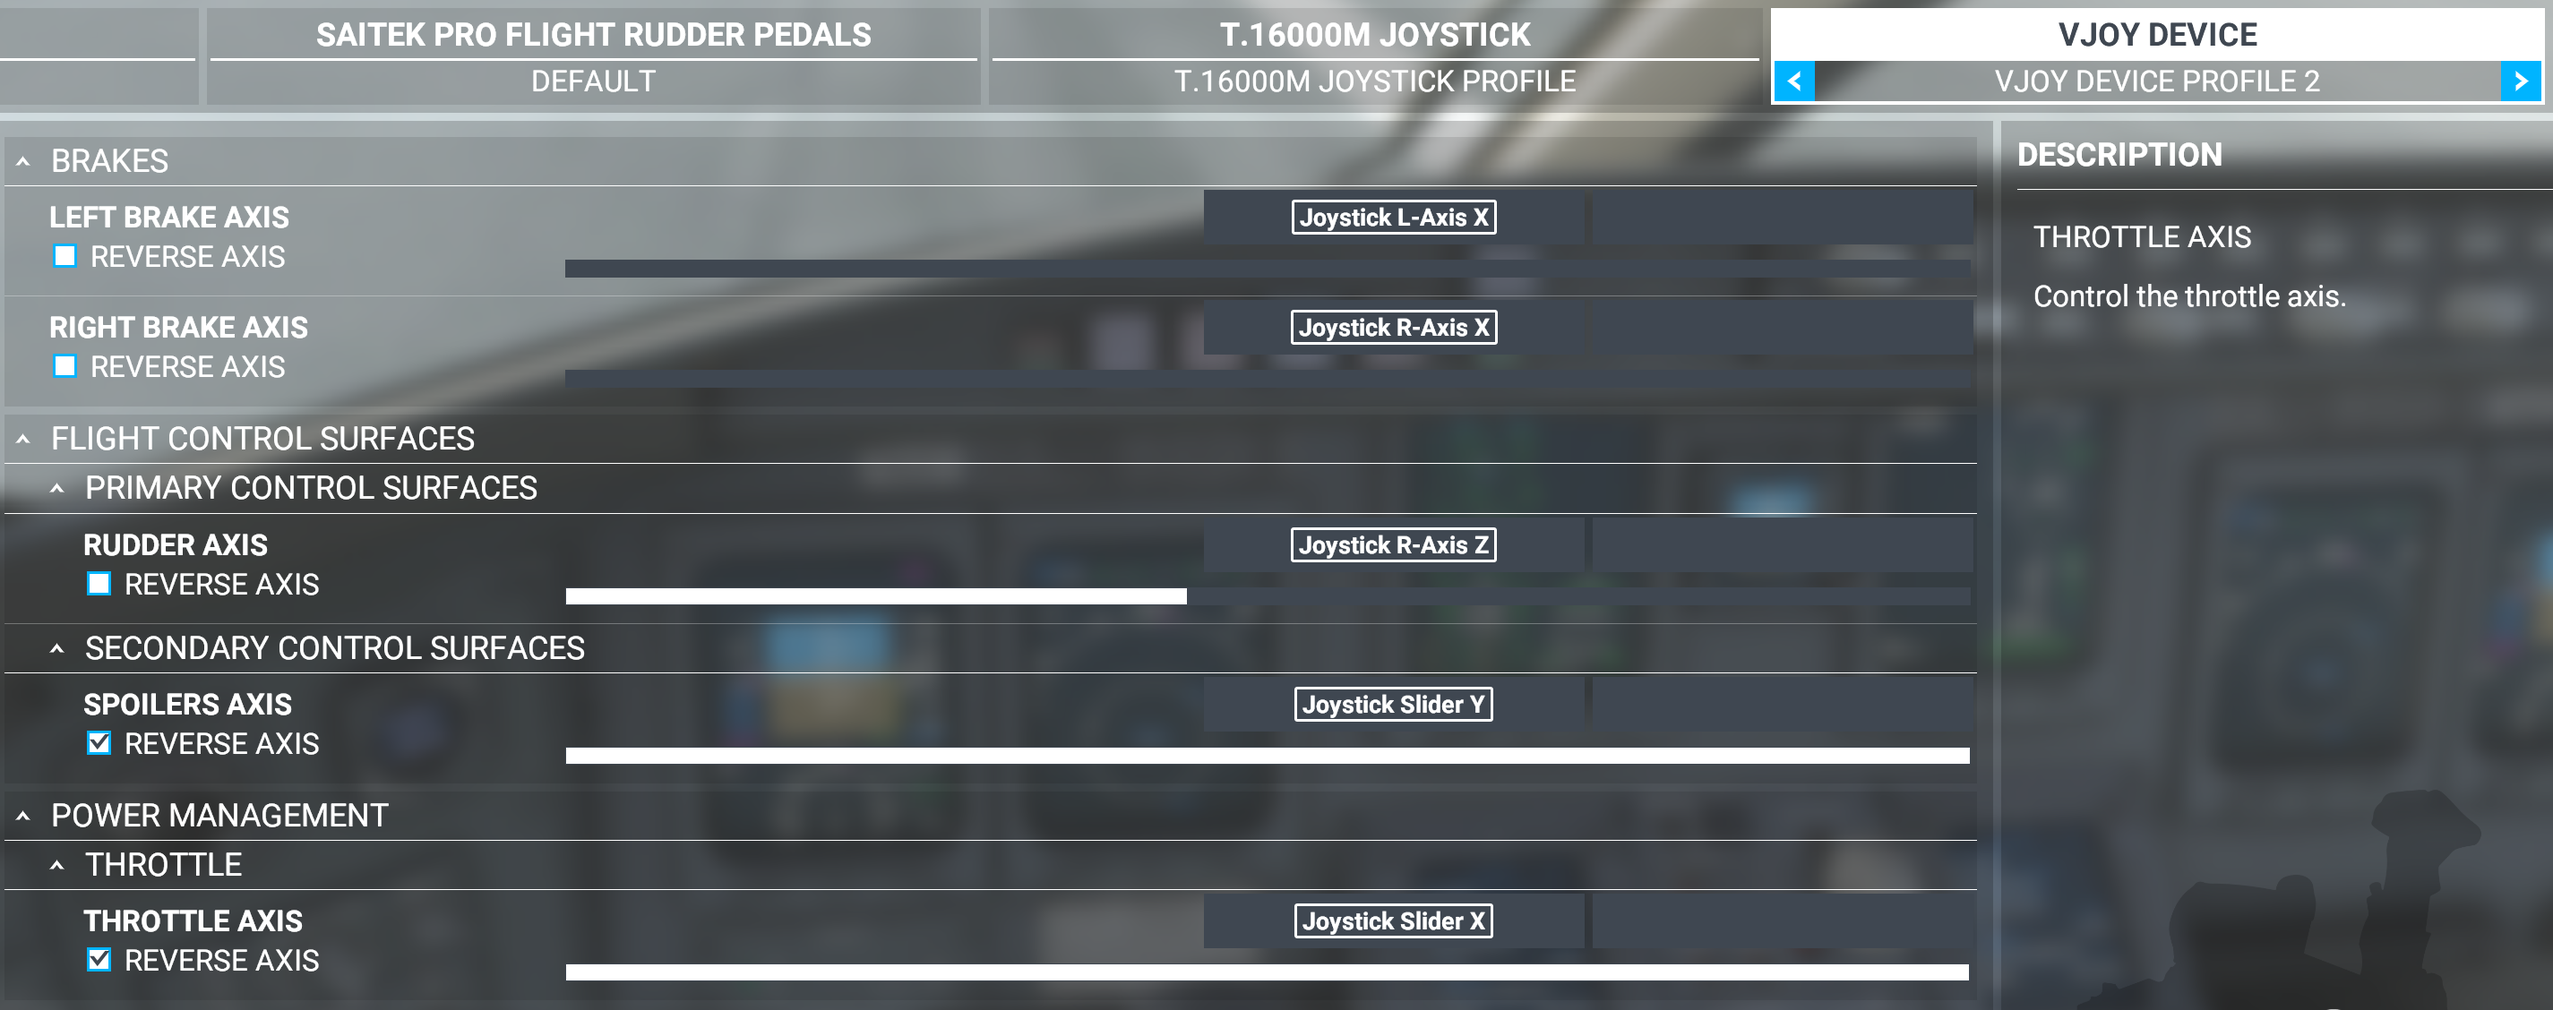
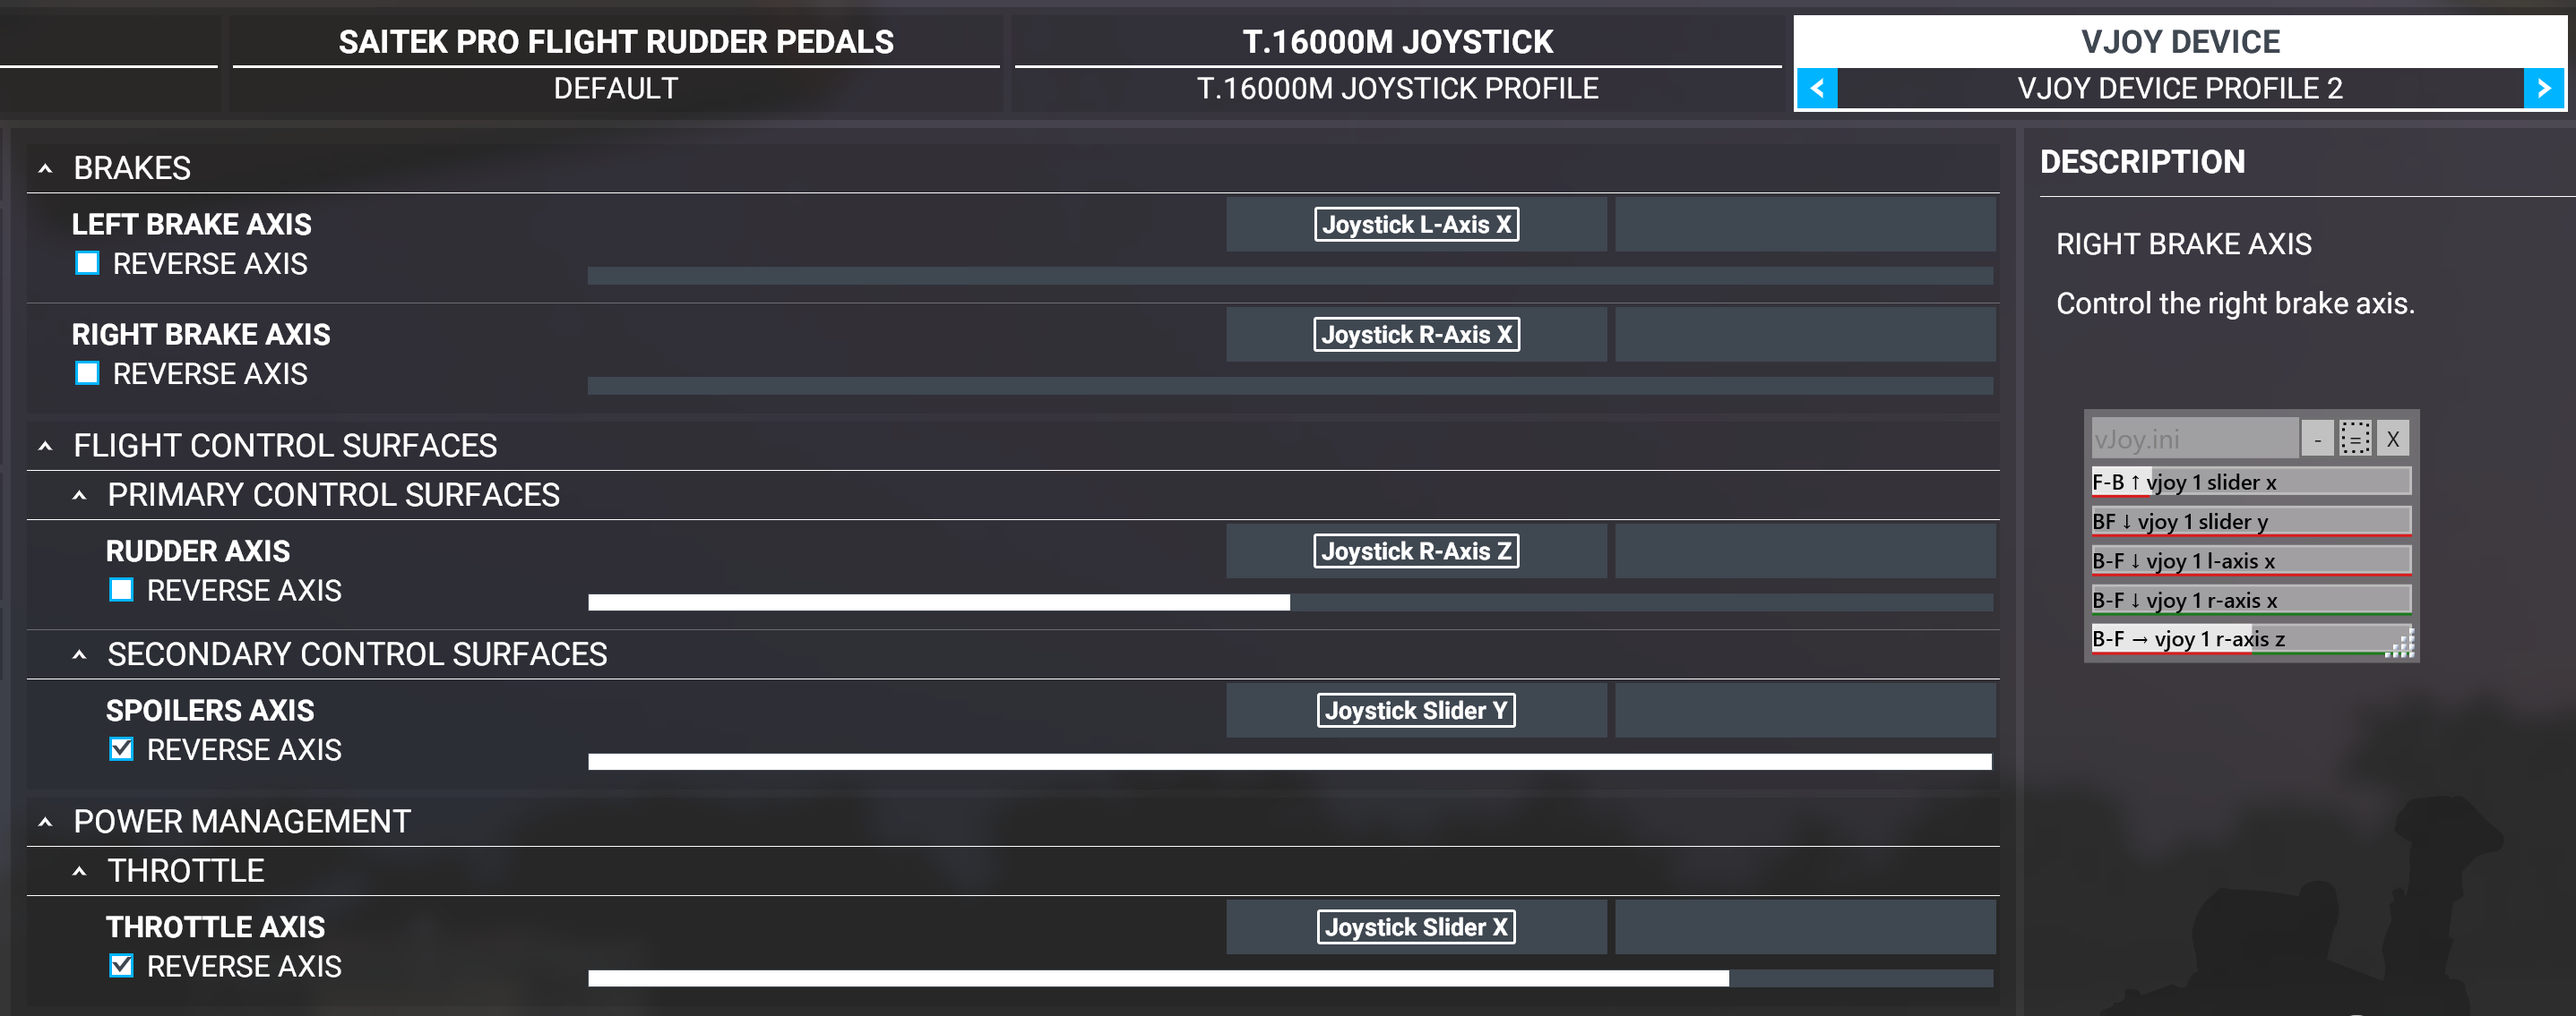
WIP Support smart reverse and rudder with vJoy for planes that do not support SimVars

diff --git a/Source/Axis.cs b/Source/Axis.cs
@@ -92,6 +92,8 @@ namespace HandOnMouse
                     {
                         m.SimVarMin = 0;
                         m.SimVarMax = 32767;
+                        m.VJoyAxisZero = uint.Parse(Kernel32.ReadIni(filePath, "VJoyAxisZero", section, "0").Trim(), NumberStyles.Integer, CultureInfo.InvariantCulture);
+                        m.VJoyAxisIsThrottle = bool.Parse(Kernel32.ReadIni(filePath, "VJoyAxisIsThrottle", section, "False").Trim());
                         if (_vJoy == null)
                         {
                             _vJoy = new vJoy();
@@ -132,10 +134,8 @@ namespace HandOnMouse
                         m.SimVarMax = Math.Max(min, max);
                         m.SimVarMin = Math.Min(min, max);
                         m.SimVarValue = Math.Max(0, m.SimVarMin);
-                        m.TrimCounterCenteringMove = bool.Parse(
-                            Kernel32.ReadIni(filePath, "TrimCounterCenteringMove", section, "False").Trim());
-                        m.DisableThrottleReverse = bool.Parse(
-                            Kernel32.ReadIni(filePath, "DisableThrottleReverse", section, "False").Trim());
+                        m.TrimCounterCenteringMove = bool.Parse(Kernel32.ReadIni(filePath, "TrimCounterCenteringMove", section, "False").Trim());
+                        m.DisableThrottleReverse = bool.Parse(Kernel32.ReadIni(filePath, "DisableThrottleReverse", section, "False").Trim());
                     }
                     m.Sensitivity = Math.Max(1 / 100, Math.Min(100, double.Parse(
                         Kernel32.ReadIni(filePath, "Sensitivity", section, "1"), NumberStyles.Float, CultureInfo.InvariantCulture)));
@@ -317,6 +317,10 @@ namespace HandOnMouse
         public uint VJoyId { get; private set; }
         public HID_USAGES VJoyAxis { get; private set; }
 
+        /// <summary>For smart axis features only (value sent to vJoy remains in range 0..32763)</summary>
+        public uint VJoyAxisZero { get; private set; }
+        public bool VJoyAxisIsThrottle { get; private set; }
+
         public string SimVarName 
         { 
             get { return _simVarName; } 
@@ -369,8 +373,8 @@ namespace HandOnMouse
             }
         }
         public double SimVarScale { get { return _simVarMax - _simVarMin; } }
-        public double SimVarNegativeScale { get { return _simVarMin < 0 ? _simVarMax < 0 ? 1 : (0-_simVarMin)/SimVarScale : 0; } }
-        public double SimVarPositiveScale { get { return _simVarMax > 0 ? _simVarMin > 0 ? 1 : (_simVarMax-0)/SimVarScale : 0; } }
+        public double SimVarNegativeScale { get { var zero = VJoyAxisZero > 0 ? VJoyAxisZero : 0; return _simVarMin < zero ? _simVarMax < zero ? 1 : (zero-_simVarMin)/SimVarScale : 0; } }
+        public double SimVarPositiveScale { get { var zero = VJoyAxisZero > 0 ? VJoyAxisZero : 0; return _simVarMax > zero ? _simVarMin > zero ? 1 : (_simVarMax-zero)/SimVarScale : 0; } }
         public string SimVarNegativeScaleString { get { return string.Format(CultureInfo.InvariantCulture, "{0:0.##}*", SimVarNegativeScale); } }
         public string SimVarPositiveScaleString { get { return string.Format(CultureInfo.InvariantCulture, "{0:0.##}*", SimVarPositiveScale); } }
         public Brush SimVarNegativeColor { get; private set; }
@@ -469,9 +473,10 @@ namespace HandOnMouse
         }
         public void UpdateTimerChanges(double intervalSecs)
         {
-            if (!IsActive && DecreaseScaleTimeSecs > 0 && Value != 0)
+            var v = VJoyAxisZero > 0 ? Value - VJoyAxisZero : Value;
+            if (!IsActive && DecreaseScaleTimeSecs > 0 && v != 0)
             {
-                SimVarChange = -Math.Sign(Value) * Math.Min(Math.Abs(Value), SimVarScale * intervalSecs / DecreaseScaleTimeSecs);
+                SimVarChange = -Math.Sign(v) * Math.Min(Math.Abs(v), SimVarScale * intervalSecs / DecreaseScaleTimeSecs);
                 NotifyPropertyChanged("Value");
             }
         }

diff --git a/Source/MainWindow.xaml.cs b/Source/MainWindow.xaml.cs
@@ -454,8 +454,12 @@ namespace HandOnMouse
                                         d2 == Axis.Direction.Draw ?  mouse.LastY :
                                         d2 == Axis.Direction.Right ? mouse.LastX : -mouse.LastX;
 
-                                var inDetent = m.IsThrottle && Math.Abs(m.Value) < m.SimVarScale * Settings.Default.ReverseDetentWidthInPercent / 100;
-                                var inReverse = m.IsThrottle && m.Value < 0;
+                                var inDetent = 
+                                    (m.IsThrottle && Math.Abs(m.Value) < m.SimVarScale * Settings.Default.ReverseDetentWidthInPercent / 100) ||
+                                    (m.VJoyAxisIsThrottle && m.VJoyAxisZero > 0 && Math.Abs(m.Value - m.VJoyAxisZero) < m.SimVarScale * Settings.Default.ReverseDetentWidthInPercent / 100);
+                                var inReverse = 
+                                    (m.IsThrottle && m.Value < 0) ||
+                                    (m.VJoyAxisIsThrottle && m.VJoyAxisZero > 0 && (m.Value - m.VJoyAxisZero) < 0);
                                 var reverse = d == Axis.Direction.Push || d == Axis.Direction.Draw ? Axis.Direction.Right : Axis.Direction.Draw;
                                 if (inDetent && mouse.LastX != 0 && reverse == Axis.Direction.Right)
                                     change = -mouse.LastX;
